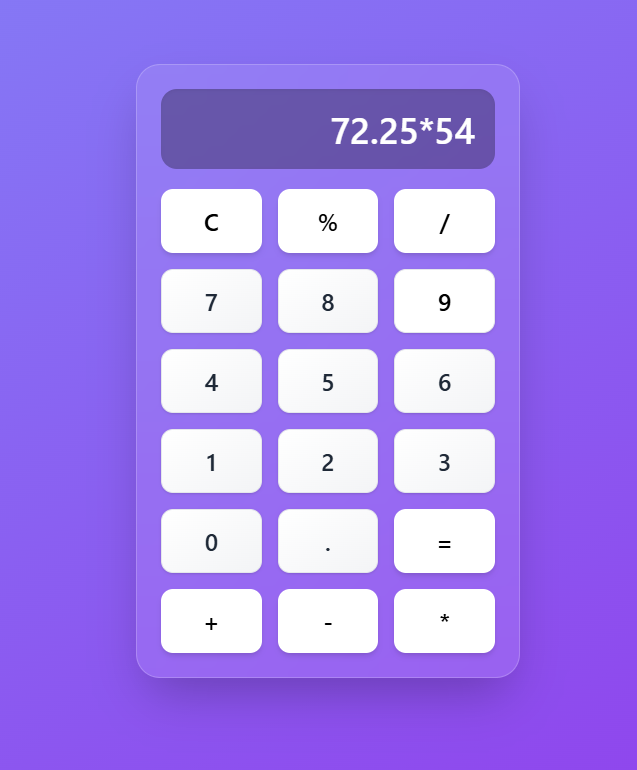
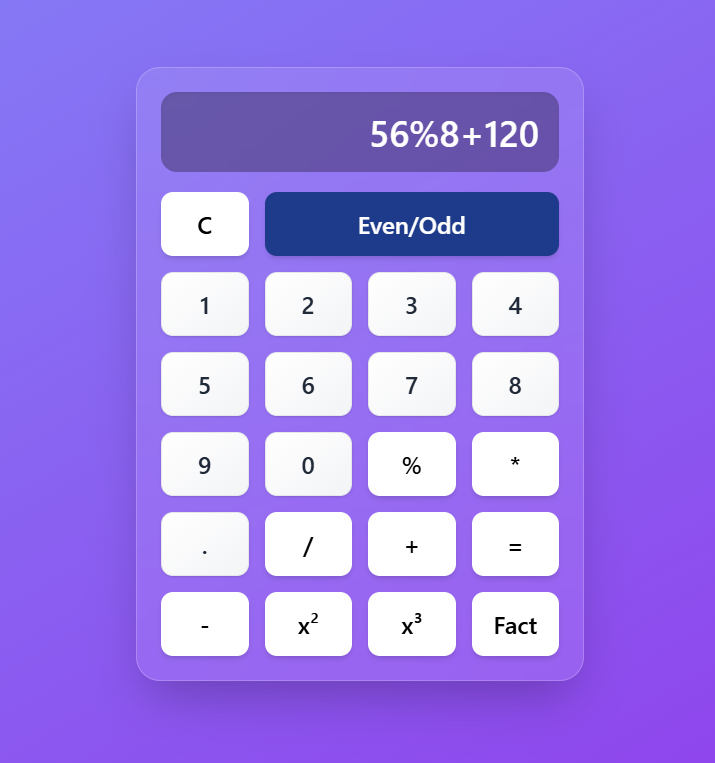
done

diff --git a/5.Calc/index.html b/5.Calc/index.html
@@ -11,56 +11,65 @@
 <body class="min-h-screen flex items-center justify-center bg-gradient-to-br from-indigo-400 to-purple-600 p-5">
 
     <div
-        class="w-full max-w-sm p-6 rounded-3xl border border-white/20 bg-white/10 backdrop-blur-2xl shadow-2xl animate-[slideIn_0.8s_cubic-bezier(0.175,0.885,0.32,1.275)]">
+        class="w-full max-w-md p-6 rounded-3xl border border-white/20 bg-white/10 backdrop-blur-2xl shadow-2xl animate-[slideIn_0.8s_cubic-bezier(0.175,0.885,0.32,1.275)]">
 
         <input id="display" type="text" readonly
             class="w-full h-20 bg-black/30 text-white text-4xl font-semibold text-right px-5 mb-5 rounded-2xl shadow-inner outline-none focus:ring-2 focus:ring-white/30 transition" />
 
-        <div class="grid grid-cols-3 gap-4">
+        <div class="grid grid-cols-4 gap-4">
 
             <input type="button" value="C" onclick="clearDisplay()"
-                class="h-16 rounded-xl text-2xl font-semibold bg-white shadow-md hover:from-pink-500 hover:to-purple-600 hover:shadow-xl transition" />
-
-            <input type="button" value="%" onclick="addToDisplay('%')"
-                class="h-16 rounded-xl text-2xl font-semibold bg-white shadow-md hover:from-purple-600 hover:to-indigo-700 hover:shadow-xl transition" />
-            <input type="button" value="/" onclick="addToDisplay('/')"
-                class="h-16 rounded-xl text-2xl font-semibold bg-white  shadow-md hover:from-purple-600 hover:to-indigo-700 hover:shadow-xl transition" />
-
-            <input type="button" value="7" onclick="addToDisplay('7')"
-                class="h-16 rounded-xl text-2xl font-semibold bg-gradient-to-br from-white to-gray-100 text-gray-800 border border-gray-200 shadow hover:from-gray-100 hover:to-gray-200 transition" />
-            <input type="button" value="8" onclick="addToDisplay('8')"
-                class="h-16 rounded-xl text-2xl font-semibold bg-gradient-to-br from-white to-gray-100 text-gray-800 border border-gray-200 shadow hover:from-gray-100 hover:to-gray-200 transition" />
-            <input type="button" value="9" onclick="addToDisplay('9')"
-                class="h-16 rounded-xl text-2xl font-semibold bg-white border border-gray-200 shadow hover:from-gray-100 hover:to-gray-200 transition" />
-
-            <input type="button" value="4" onclick="addToDisplay('4')"
-                class="h-16 rounded-xl text-2xl font-semibold bg-gradient-to-br from-white to-gray-100 text-gray-800 border border-gray-200 shadow hover:from-gray-100 hover:to-gray-200 transition" />
-            <input type="button" value="5" onclick="addToDisplay('5')"
-                class="h-16 rounded-xl text-2xl font-semibold bg-gradient-to-br from-white to-gray-100 text-gray-800 border border-gray-200 shadow hover:from-gray-100 hover:to-gray-200 transition" />
-            <input type="button" value="6" onclick="addToDisplay('6')"
-                class="h-16 rounded-xl text-2xl font-semibold bg-gradient-to-br from-white to-gray-100 text-gray-800 border border-gray-200 shadow hover:from-gray-100 hover:to-gray-200 transition" />
+                class="h-16 rounded-xl text-2xl font-semibold bg-white shadow-md hover:shadow-xl transition" />
+            <input type="button" value="Even/Odd" onclick="evenOddCheck()"
+                class="col-span-3 h-16 rounded-xl text-2xl font-semibold bg-blue-900 text-white shadow-md hover:shadow-xl transition" />
 
             <input type="button" value="1" onclick="addToDisplay('1')"
-                class="h-16 rounded-xl text-2xl font-semibold bg-gradient-to-br from-white to-gray-100 text-gray-800 border border-gray-200 shadow hover:from-gray-100 hover:to-gray-200 transition" />
+                class="h-16 rounded-xl text-2xl font-semibold bg-gradient-to-br from-white to-gray-100 text-gray-800 border shadow hover:shadow-xl transition" />
             <input type="button" value="2" onclick="addToDisplay('2')"
-                class="h-16 rounded-xl text-2xl font-semibold bg-gradient-to-br from-white to-gray-100 text-gray-800 border border-gray-200 shadow hover:from-gray-100 hover:to-gray-200 transition" />
+                class="h-16 rounded-xl text-2xl font-semibold bg-gradient-to-br from-white to-gray-100 text-gray-800 border shadow hover:shadow-xl transition" />
             <input type="button" value="3" onclick="addToDisplay('3')"
-                class="h-16 rounded-xl text-2xl font-semibold bg-gradient-to-br from-white to-gray-100 text-gray-800 border border-gray-200 shadow hover:from-gray-100 hover:to-gray-200 transition" />
+                class="h-16 rounded-xl text-2xl font-semibold bg-gradient-to-br from-white to-gray-100 text-gray-800 border shadow hover:shadow-xl transition" />
+
+            <input type="button" value="4" onclick="addToDisplay('4')"
+                class="h-16 rounded-xl text-2xl font-semibold bg-gradient-to-br from-white to-gray-100 text-gray-800 border shadow hover:shadow-xl transition" />
+            <input type="button" value="5" onclick="addToDisplay('5')"
+                class="h-16 rounded-xl text-2xl font-semibold bg-gradient-to-br from-white to-gray-100 text-gray-800 border shadow hover:shadow-xl transition" />
+            <input type="button" value="6" onclick="addToDisplay('6')"
+                class="h-16 rounded-xl text-2xl font-semibold bg-gradient-to-br from-white to-gray-100 text-gray-800 border shadow hover:shadow-xl transition" />
+
+            <input type="button" value="7" onclick="addToDisplay('7')"
+                class="h-16 rounded-xl text-2xl font-semibold bg-gradient-to-br from-white to-gray-100 text-gray-800 border shadow hover:shadow-xl transition" />
+            <input type="button" value="8" onclick="addToDisplay('8')"
+                class="h-16 rounded-xl text-2xl font-semibold bg-gradient-to-br from-white to-gray-100 text-gray-800 border shadow hover:shadow-xl transition" />
+            <input type="button" value="9" onclick="addToDisplay('9')"
+                class="h-16 rounded-xl text-2xl font-semibold bg-gradient-to-br from-white to-gray-100 text-gray-800 border shadow hover:shadow-xl transition" />
 
             <input type="button" value="0" onclick="addToDisplay('0')"
-                class="h-16 rounded-xl text-2xl font-semibold bg-gradient-to-br from-white to-gray-100 text-gray-800 border border-gray-200 shadow hover:from-gray-100 hover:to-gray-200 transition" />
+                class="h-16 rounded-xl text-2xl font-semibold bg-gradient-to-br from-white to-gray-100 text-gray-800 border shadow hover:shadow-xl transition" />
+                
+            <input type="button" value="%" onclick="addToDisplay('%')"
+                class="h-16 rounded-xl text-2xl font-semibold bg-white shadow-md hover:shadow-xl transition" />
+            <input type="button" value="*" onclick="addToDisplay('*')"
+                class="h-16 rounded-xl text-2xl font-semibold bg-white shadow-md hover:shadow-xl transition" />
+            
             <input type="button" value="." onclick="addToDisplay('.')"
-                class="h-16 rounded-xl text-2xl font-semibold bg-gradient-to-br from-white to-gray-100 text-gray-800 border border-gray-200 shadow hover:from-gray-100 hover:to-gray-200 transition" />
-
-            <input type="button" value="=" onclick="calculate()"
-                class="h-16 rounded-xl text-2xl font-semibold bg-white shadow-md hover:from-sky-500 hover:to-blue-700 hover:shadow-xl transition" />
+                class="h-16 rounded-xl text-2xl font-semibold bg-gradient-to-br from-white to-gray-100 text-gray-800 border shadow hover:shadow-xl transition" />
+            <input type="button" value="/" onclick="addToDisplay('/')"
+                class="h-16 rounded-xl text-2xl font-semibold bg-white shadow-md hover:shadow-xl transition" />
 
             <input type="button" value="+" onclick="addToDisplay('+')"
-                class="h-16 rounded-xl text-2xl font-semibold bg-white  shadow-md hover:from-purple-600 hover:to-indigo-700 hover:shadow-xl transition" />
+                class="h-16 rounded-xl text-2xl font-semibold bg-white shadow-md hover:shadow-xl transition" />
+            <input type="button" value="=" onclick="calculate()"
+                class="h-16 rounded-xl text-2xl font-semibold bg-white shadow-md hover:shadow-xl transition" />
             <input type="button" value="-" onclick="addToDisplay('-')"
-                class="h-16 rounded-xl text-2xl font-semibold bg-white  shadow-md hover:from-purple-600 hover:to-indigo-700 hover:shadow-xl transition" />
-            <input type="button" value="*" onclick="addToDisplay('*')"
-                class="h-16 rounded-xl text-2xl font-semibold bg-white  shadow-md hover:from-purple-600 hover:to-indigo-700 hover:shadow-xl transition" />
+                class="h-16 rounded-xl text-2xl font-semibold bg-white shadow-md hover:shadow-xl transition" />
+
+            <input type="button" value="x²" onclick="square()"
+                class="h-16 rounded-xl text-2xl font-semibold bg-white shadow-md hover:shadow-xl transition" />
+            <input type="button" value="x³" onclick="cube()"
+                class="h-16 rounded-xl text-2xl font-semibold bg-white shadow-md hover:shadow-xl transition" />
+            <input type="button" value="Fact" onclick="factorial()"
+                class="h-16 rounded-xl text-2xl font-semibold bg-white shadow-md hover:shadow-xl transition" />
         </div>
     </div>
 
@@ -68,15 +77,51 @@
         function addToDisplay(value) {
             document.getElementById("display").value += value;
         }
+
         function clearDisplay() {
             document.getElementById("display").value = "";
         }
+
         function calculate() {
             try {
-                document.getElementById("display").value = eval(document.getElementById("display").value);
+                document.getElementById("display").value =
+                    eval(document.getElementById("display").value);
             } catch {
                 document.getElementById("display").value = "Error";
             }
+        }
+
+        function square() {
+            let val = document.getElementById("display").value;
+            document.getElementById("display").value = val * val;
+        }
+
+        function cube() {
+            let val = document.getElementById("display").value;
+            document.getElementById("display").value = val * val * val;
+        }
+
+        function factorial() {
+            let val = document.getElementById("display").value;
+            if (val < 0) {
+                document.getElementById("display").value = "Error";
+                return;
+            }
+            let fact = 1;
+            for (let i = 1; i <= val; i++) {
+                fact *= i;
+            }
+            document.getElementById("display").value = fact;
+        }
+
+        function evenOddCheck() {
+            let val = Number(document.getElementById("display").value);
+            if (isNaN(val)) {
+                document.getElementById("display").value = "Error";
+                return;
+            }
+            document.getElementById("display").value =
+                val % 2 === 0 ? "Even" : "Odd";
         }
     </script>
 </body>
